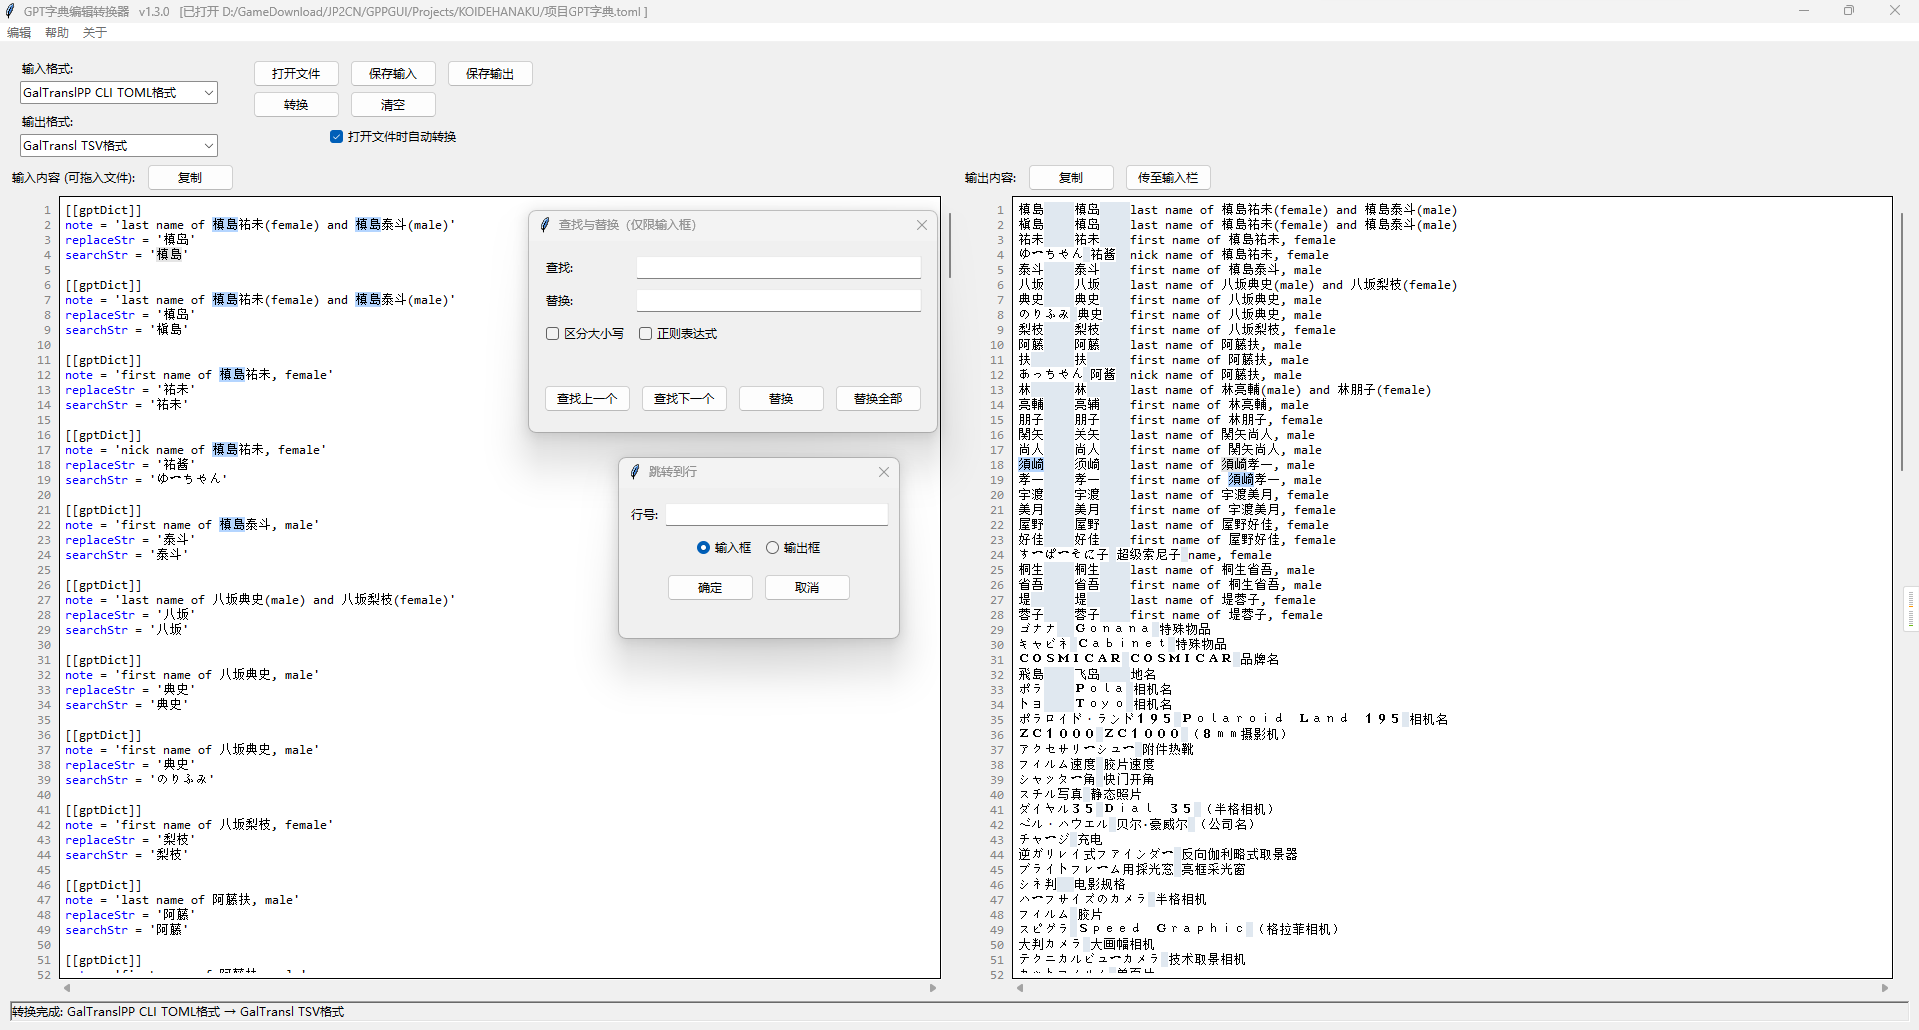
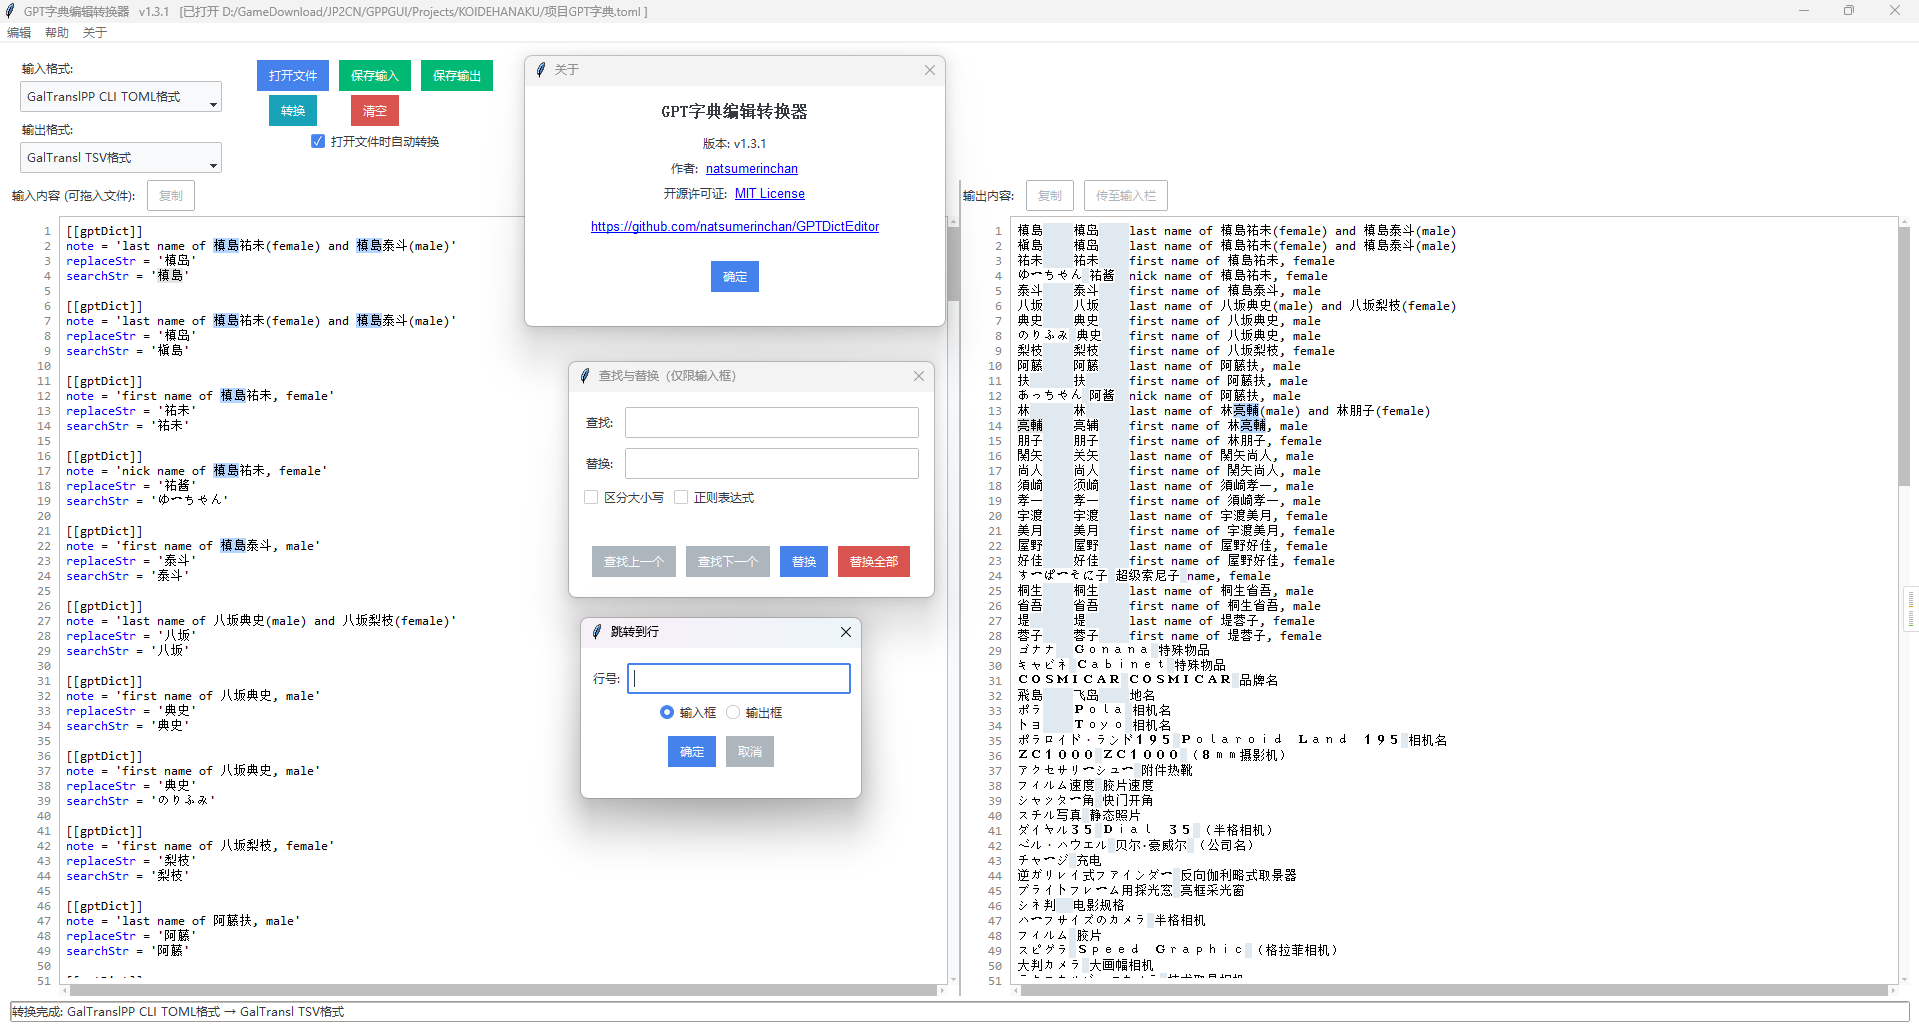
界面风格从tkinter转为ttkbootstrap

diff --git a/ui/main_window.py b/ui/main_window.py
@@ -1,7 +1,7 @@
 # ui/main_window.py
 import tkinter as tk
-from tkinter import ttk
-import tkinter.font as tkFont
+import ttkbootstrap as ttk
+from ttkbootstrap.constants import *
 
 from .custom_widgets import EditorWithLineNumbers
 
@@ -30,16 +30,16 @@ class MainWindowUI:
         top_control_frame.grid(row=0, column=0, columnspan=2, pady=5, sticky="ew")
         
         format_frame = ttk.Frame(top_control_frame)
-        format_frame.pack(side=tk.LEFT, padx=10)
+        format_frame.pack(side=LEFT, padx=10)
         
         # --- 输入格式 ---
-        ttk.Label(format_frame, text="输入格式:").pack(anchor=tk.W)
+        ttk.Label(format_frame, text="输入格式:").pack(anchor=W)
         self.app.input_format = ttk.Combobox(format_frame, values=["自动检测"] + list(self.app.format_names.values()), state="readonly", width=25)
         self.app.input_format.set("自动检测")
         self.app.input_format.pack(pady=2)
         
         # --- 输出格式 ---
-        ttk.Label(format_frame, text="输出格式:").pack(anchor=tk.W, pady=(5, 0))
+        ttk.Label(format_frame, text="输出格式:").pack(anchor=W, pady=(5, 0))
         self.app.output_format = ttk.Combobox(format_frame, values=list(self.app.format_names.values()), state="readonly", width=25)
         self.app.output_format.set(self.app.format_names["GPPGUI_TOML"])
         self.app.output_format.pack(pady=2)
@@ -47,46 +47,46 @@ class MainWindowUI:
 
         # --- 按钮区域 ---
         button_frame = ttk.Frame(top_control_frame)
-        button_frame.pack(side=tk.LEFT, padx=20, anchor='n')
+        button_frame.pack(side=LEFT, padx=20, anchor='n')
         
         btn_grid = ttk.Frame(button_frame)
         btn_grid.pack()
-        ttk.Button(btn_grid, text="打开文件", command=self.app.file_handler.open_file).grid(row=0, column=0, padx=5, pady=2)
-        ttk.Button(btn_grid, text="保存输入", command=self.app.file_handler.save_input_file).grid(row=0, column=1, padx=5, pady=2)
-        ttk.Button(btn_grid, text="保存输出", command=self.app.file_handler.save_output_file).grid(row=0, column=2, padx=5, pady=2)
-        ttk.Button(btn_grid, text="转换", command=self.app.convert).grid(row=1, column=0, padx=5, pady=2)
-        ttk.Button(btn_grid, text="清空", command=self.app.clear).grid(row=1, column=1, padx=5, pady=2)
+        ttk.Button(btn_grid, text="打开文件", command=self.app.file_handler.open_file, bootstyle="primary").grid(row=0, column=0, padx=5, pady=2)
+        ttk.Button(btn_grid, text="保存输入", command=self.app.file_handler.save_input_file, bootstyle="success").grid(row=0, column=1, padx=5, pady=2)
+        ttk.Button(btn_grid, text="保存输出", command=self.app.file_handler.save_output_file, bootstyle="success").grid(row=0, column=2, padx=5, pady=2)
+        ttk.Button(btn_grid, text="转换", command=self.app.convert, bootstyle="info").grid(row=1, column=0, padx=5, pady=2)
+        ttk.Button(btn_grid, text="清空", command=self.app.clear, bootstyle="danger").grid(row=1, column=1, padx=5, pady=2)
         
         self.app.auto_convert_var = tk.BooleanVar(value=True)
-        ttk.Checkbutton(button_frame, text="打开文件时自动转换", variable=self.app.auto_convert_var).pack(pady=5)
+        ttk.Checkbutton(button_frame, text="打开文件时自动转换", variable=self.app.auto_convert_var, bootstyle="primary").pack(pady=5)
         
         # --- 内容编辑区 ---
-        content_frame = ttk.PanedWindow(main_frame, orient=tk.HORIZONTAL)
+        content_frame = ttk.PanedWindow(main_frame, orient=HORIZONTAL)
         content_frame.grid(row=1, column=0, columnspan=2, sticky="nsew")
 
         input_pane = ttk.Frame(content_frame)
         input_header = ttk.Frame(input_pane)
-        input_header.pack(fill=tk.X, pady=(0, 5))
-        ttk.Label(input_header, text="输入内容 (可拖入文件):").pack(side=tk.LEFT, anchor=tk.W)
-        ttk.Button(input_header, text="复制", command=self.app.copy_input).pack(side=tk.LEFT, padx=10)
+        input_header.pack(fill=X, pady=(0, 5))
+        ttk.Label(input_header, text="输入内容 (可拖入文件):").pack(side=LEFT, anchor=W)
+        ttk.Button(input_header, text="复制", command=self.app.copy_input, bootstyle="secondary-outline").pack(side=LEFT, padx=10)
         self.app.input_text = EditorWithLineNumbers(input_pane, borderwidth=1, relief="solid")
-        self.app.input_text.pack(expand=True, fill=tk.BOTH)
+        self.app.input_text.pack(expand=True, fill=BOTH)
         
         output_pane = ttk.Frame(content_frame)
         output_header = ttk.Frame(output_pane)
-        output_header.pack(fill=tk.X, pady=(0, 5))
-        ttk.Label(output_header, text="输出内容:").pack(side=tk.LEFT, anchor=tk.W)
-        ttk.Button(output_header, text="复制", command=self.app.copy_output).pack(side=tk.LEFT, padx=10)
-        ttk.Button(output_header, text="传至输入栏", command=self.app.transfer_output_to_input).pack(side=tk.LEFT)
-        self.app.output_text = EditorWithLineNumbers(output_pane, state=tk.DISABLED, borderwidth=1, relief="solid")
-        self.app.output_text.pack(expand=True, fill=tk.BOTH)
+        output_header.pack(fill=X, pady=(0, 5))
+        ttk.Label(output_header, text="输出内容:").pack(side=LEFT, anchor=W)
+        ttk.Button(output_header, text="复制", command=self.app.copy_output, bootstyle="secondary-outline").pack(side=LEFT, padx=10)
+        ttk.Button(output_header, text="传至输入栏", command=self.app.transfer_output_to_input, bootstyle="secondary-outline").pack(side=LEFT)
+        self.app.output_text = EditorWithLineNumbers(output_pane, state=DISABLED, borderwidth=1, relief="solid")
+        self.app.output_text.pack(expand=True, fill=BOTH)
 
         content_frame.add(input_pane, weight=1)
         content_frame.add(output_pane, weight=1)
         
         # --- 状态栏 ---
         self.app.status_var = tk.StringVar(value="就绪")
-        ttk.Label(main_frame, textvariable=self.app.status_var, relief=tk.SUNKEN).grid(row=2, column=0, columnspan=2, sticky="ew", pady=(5, 0))
+        ttk.Label(main_frame, textvariable=self.app.status_var, relief=SUNKEN).grid(row=2, column=0, columnspan=2, sticky="ew", pady=(5, 0))
 
         # --- 编辑器共享样式 ---
         editor_style = {

diff --git a/ui/dialogs/find_replace.py b/ui/dialogs/find_replace.py
@@ -5,9 +5,11 @@
 
 import re
 import tkinter as tk
-from tkinter import ttk, messagebox
+import ttkbootstrap as ttk
+from ttkbootstrap.constants import *
+from tkinter import messagebox
 
-class FindReplaceDialog(tk.Toplevel):
+class FindReplaceDialog(ttk.Toplevel):
     """
     一个用于查找和替换文本的 Toplevel 窗口。
     它可以在目标文本控件中高亮所有匹配项，并执行替换操作，
@@ -29,32 +31,32 @@ class FindReplaceDialog(tk.Toplevel):
     def create_widgets(self):
         """创建并布局对话框中的所有UI组件。"""
         main_frame = ttk.Frame(self, padding="10")
-        main_frame.pack(expand=True, fill=tk.BOTH)
+        main_frame.pack(expand=True, fill=BOTH)
 
-        ttk.Label(main_frame, text="查找:").grid(row=0, column=0, sticky=tk.W, padx=5, pady=5)
+        ttk.Label(main_frame, text="查找:").grid(row=0, column=0, sticky=W, padx=5, pady=5)
         self.find_entry = ttk.Entry(main_frame, width=40)
-        self.find_entry.grid(row=0, column=1, columnspan=2, sticky=(tk.W, tk.E), padx=5, pady=5)
+        self.find_entry.grid(row=0, column=1, columnspan=2, sticky=(W, E), padx=5, pady=5)
 
-        ttk.Label(main_frame, text="替换:").grid(row=1, column=0, sticky=tk.W, padx=5, pady=5)
+        ttk.Label(main_frame, text="替换:").grid(row=1, column=0, sticky=W, padx=5, pady=5)
         self.replace_entry = ttk.Entry(main_frame, width=40)
-        self.replace_entry.grid(row=1, column=1, columnspan=2, sticky=(tk.W, tk.E), padx=5, pady=5)
+        self.replace_entry.grid(row=1, column=1, columnspan=2, sticky=(W, E), padx=5, pady=5)
 
         option_frame = ttk.Frame(main_frame)
-        option_frame.grid(row=2, column=0, columnspan=3, sticky=tk.W, pady=5)
+        option_frame.grid(row=2, column=0, columnspan=3, sticky=W, pady=5)
         self.case_var = tk.BooleanVar()
-        ttk.Checkbutton(option_frame, text="区分大小写", variable=self.case_var).pack(side=tk.LEFT, padx=5)
+        ttk.Checkbutton(option_frame, text="区分大小写", variable=self.case_var, bootstyle="primary").pack(side=LEFT, padx=5)
         self.regex_var = tk.BooleanVar()
-        ttk.Checkbutton(option_frame, text="正则表达式", variable=self.regex_var).pack(side=tk.LEFT, padx=5)
+        ttk.Checkbutton(option_frame, text="正则表达式", variable=self.regex_var, bootstyle="primary").pack(side=LEFT, padx=5)
 
         self.status_label = ttk.Label(main_frame, text="")
-        self.status_label.grid(row=3, column=0, columnspan=3, sticky=tk.W, padx=5, pady=2)
+        self.status_label.grid(row=3, column=0, columnspan=3, sticky=W, padx=5, pady=2)
 
         btn_frame = ttk.Frame(main_frame)
         btn_frame.grid(row=4, column=0, columnspan=3, pady=10)
-        ttk.Button(btn_frame, text="查找上一个", command=self.find_previous).pack(side=tk.LEFT, padx=5)
-        ttk.Button(btn_frame, text="查找下一个", command=self.find_next).pack(side=tk.LEFT, padx=5)
-        ttk.Button(btn_frame, text="替换", command=self.replace).pack(side=tk.LEFT, padx=5)
-        ttk.Button(btn_frame, text="替换全部", command=self.replace_all).pack(side=tk.LEFT, padx=5)
+        ttk.Button(btn_frame, text="查找上一个", command=self.find_previous, bootstyle="secondary").pack(side=LEFT, padx=5)
+        ttk.Button(btn_frame, text="查找下一个", command=self.find_next, bootstyle="secondary").pack(side=LEFT, padx=5)
+        ttk.Button(btn_frame, text="替换", command=self.replace, bootstyle="primary").pack(side=LEFT, padx=5)
+        ttk.Button(btn_frame, text="替换全部", command=self.replace_all, bootstyle="danger").pack(side=LEFT, padx=5)
 
         self.find_entry.bind('<KeyRelease>', lambda e: self._highlight_all_matches())
         self.case_var.trace_add('write', lambda *a: self._highlight_all_matches())

diff --git a/ui/dialogs/go_to_line.py b/ui/dialogs/go_to_line.py
@@ -4,9 +4,11 @@
 """
 
 import tkinter as tk
-from tkinter import ttk, messagebox
+import ttkbootstrap as ttk
+from ttkbootstrap.constants import *
+from tkinter import messagebox
 
-class GoToLineDialog(tk.Toplevel):
+class GoToLineDialog(ttk.Toplevel):
     """
     一个用于跳转到指定行的 Toplevel 窗口。
     用户可以选择目标是输入框还是输出框。
@@ -39,14 +41,14 @@ class GoToLineDialog(tk.Toplevel):
     def create_widgets(self):
         """创建并布局对话框中的所有UI组件。"""
         main_frame = ttk.Frame(self, padding="10")
-        main_frame.pack(expand=True, fill=tk.BOTH)
+        main_frame.pack(expand=True, fill=BOTH)
 
         # 行号输入区域
         input_frame = ttk.Frame(main_frame)
-        input_frame.pack(fill=tk.X, pady=5)
-        ttk.Label(input_frame, text="行号:").pack(side=tk.LEFT, padx=(0, 5))
+        input_frame.pack(fill=X, pady=5)
+        ttk.Label(input_frame, text="行号:").pack(side=LEFT, padx=(0, 5))
         self.line_entry = ttk.Entry(input_frame)
-        self.line_entry.pack(side=tk.LEFT, expand=True, fill=tk.X)
+        self.line_entry.pack(side=LEFT, expand=True, fill=X)
         self.line_entry.focus_set()  # 自动聚焦到输入框
         self.line_entry.bind("<Return>", self.on_ok)  # 绑定回车键
 
@@ -55,17 +57,17 @@ class GoToLineDialog(tk.Toplevel):
         target_frame.pack(pady=5)
         self.target_var = tk.StringVar(value="input")
         ttk.Radiobutton(
-            target_frame, text="输入框", variable=self.target_var, value="input"
-        ).pack(side=tk.LEFT, padx=5)
+            target_frame, text="输入框", variable=self.target_var, value="input", bootstyle="primary"
+        ).pack(side=LEFT, padx=5)
         ttk.Radiobutton(
-            target_frame, text="输出框", variable=self.target_var, value="output"
-        ).pack(side=tk.LEFT, padx=5)
+            target_frame, text="输出框", variable=self.target_var, value="output", bootstyle="primary"
+        ).pack(side=LEFT, padx=5)
 
         # 操作按钮
         btn_frame = ttk.Frame(main_frame)
         btn_frame.pack(pady=10)
-        ttk.Button(btn_frame, text="确定", command=self.on_ok).pack(side=tk.LEFT, padx=5)
-        ttk.Button(btn_frame, text="取消", command=self.destroy).pack(side=tk.LEFT, padx=5)
+        ttk.Button(btn_frame, text="确定", command=self.on_ok, bootstyle="primary").pack(side=LEFT, padx=5)
+        ttk.Button(btn_frame, text="取消", command=self.destroy, bootstyle="secondary").pack(side=LEFT, padx=5)
 
     def on_ok(self, event=None):
         """
@@ -94,9 +96,9 @@ class GoToLineDialog(tk.Toplevel):
 
         # 特殊处理：如果目标控件被禁用（如输出框），需先启用再操作
         # 注意：状态操作必须指向内部的 .text 组件
-        was_disabled = (target_widget.text.cget("state") == tk.DISABLED)
+        was_disabled = (target_widget.text.cget("state") == DISABLED)
         if was_disabled:
-            target_widget.text.config(state=tk.NORMAL)
+            target_widget.text.config(state=NORMAL)
 
         # 移除之前可能存在的所有行高亮
         for widget in [self.app.input_text, self.app.output_text]:

diff --git a/ui/dialogs/about_dialog.py b/ui/dialogs/about_dialog.py
@@ -1,18 +1,19 @@
 import tkinter as tk
 import tkinter.font as tkFont
 import webbrowser
-from tkinter import ttk
+import ttkbootstrap as ttk
+from ttkbootstrap.constants import *
 
 def show_about_dialog(parent, app_version):
     """显示“关于”对话框。"""
-    about_win = tk.Toplevel(parent)
+    about_win = ttk.Toplevel(parent)
     about_win.title("关于")
     about_win.transient(parent)
     about_win.geometry("420x240")
     about_win.resizable(False, False)
     
     main_frame = ttk.Frame(about_win, padding="15")
-    main_frame.pack(expand=True, fill=tk.BOTH)
+    main_frame.pack(expand=True, fill=BOTH)
     
     ttk.Label(main_frame, text="GPT字典编辑转换器", font=("", 12, "bold")).pack(pady=(0, 10))
     ttk.Label(main_frame, text=f"版本: {app_version}").pack(pady=2)
@@ -21,23 +22,23 @@ def show_about_dialog(parent, app_version):
     
     author_frame = ttk.Frame(main_frame)
     author_frame.pack(pady=2)
-    ttk.Label(author_frame, text="作者: ").pack(side=tk.LEFT)
+    ttk.Label(author_frame, text="作者: ").pack(side=LEFT)
     author_link = ttk.Label(author_frame, text="natsumerinchan", foreground="blue", cursor="hand2", font=link_font)
-    author_link.pack(side=tk.LEFT)
+    author_link.pack(side=LEFT)
     author_link.bind("<Button-1>", lambda e: webbrowser.open_new("https://github.com/natsumerinchan"))
     
     license_frame = ttk.Frame(main_frame)
     license_frame.pack(pady=2)
-    ttk.Label(license_frame, text="开源许可证: ").pack(side=tk.LEFT)
+    ttk.Label(license_frame, text="开源许可证: ").pack(side=LEFT)
     license_link = ttk.Label(license_frame, text="MIT License", foreground="blue", cursor="hand2", font=link_font)
-    license_link.pack(side=tk.LEFT)
+    license_link.pack(side=LEFT)
     license_link.bind("<Button-1>", lambda e: webbrowser.open_new("https://github.com/natsumerinchan/GPTDictEditor/blob/master/LICENSE"))
     
     repo_link = ttk.Label(main_frame, text="https://github.com/natsumerinchan/GPTDictEditor", foreground="blue", cursor="hand2", font=link_font)
     repo_link.pack(pady=10)
     repo_link.bind("<Button-1>", lambda e: webbrowser.open_new("https://github.com/natsumerinchan/GPTDictEditor"))
     
-    ttk.Button(main_frame, text="确定", command=about_win.destroy).pack(pady=15)
+    ttk.Button(main_frame, text="确定", command=about_win.destroy, bootstyle="primary").pack(pady=15)
     
     about_win.update_idletasks()
     x = parent.winfo_x() + (parent.winfo_width() - about_win.winfo_width()) // 2

diff --git a/ui/custom_widgets.py b/ui/custom_widgets.py
@@ -4,7 +4,8 @@
 """
 
 import tkinter as tk
-from tkinter import ttk
+import ttkbootstrap as ttk
+from ttkbootstrap.constants import *
 
 class EditorWithLineNumbers(tk.Frame):
     """
@@ -32,15 +33,15 @@ class EditorWithLineNumbers(tk.Frame):
         self.linenumbers.grid(row=0, column=0, sticky="ns")
 
         # 创建垂直滚动条
-        self.vbar = ttk.Scrollbar(self, orient=tk.VERTICAL, command=self.yview)
+        self.vbar = ttk.Scrollbar(self, orient=VERTICAL, command=self.yview)
         self.vbar.grid(row=0, column=2, sticky="ns")
         
         # 创建水平滚动条
-        self.hbar = ttk.Scrollbar(self, orient=tk.HORIZONTAL)
+        self.hbar = ttk.Scrollbar(self, orient=HORIZONTAL)
         self.hbar.grid(row=1, column=1, sticky="ew")
 
         # 创建核心文本控件
-        self.text = tk.Text(self, undo=True, wrap=tk.NONE, *args, **kwargs)
+        self.text = tk.Text(self, undo=True, wrap=NONE, *args, **kwargs)
         self.text.grid(row=0, column=1, sticky="nsew")
         
         # 将滚动条与文本控件关联

diff --git a/app.py b/app.py
@@ -5,11 +5,12 @@
 # 标准库导入
 import os
 import sys
-import tkinter as tk
+import ttkbootstrap as ttk
+from ttkbootstrap.constants import *
 import tkinter.font as tkFont
 import webbrowser
 import json
-from tkinter import ttk, messagebox
+from tkinter import messagebox
 from typing import Optional
 
 import markdown
@@ -35,7 +36,7 @@ class GPTDictConverter:
     GPT字典编辑转换器的主应用程序类。
     负责UI的创建、事件处理和模块协调。
     """
-    def __init__(self, root: tk.Tk):
+    def __init__(self, root: ttk.Window):
         self.root = root
         self.root.title(f"GPT字典编辑转换器   {APP_VERSION}")
         

diff --git a/main.py b/main.py
@@ -2,8 +2,8 @@
 # 1. 依赖检查与导入
 # #####################################################################
 import sys
-from tkinter import messagebox, Tk
-
+import ttkbootstrap as ttk
+from tkinter import messagebox
 from tkinterdnd2 import TkinterDnD
 
 # 从其他模块导入主应用程序类
@@ -24,6 +24,7 @@ def main():
         root = TkinterDnD.Tk()
         
         # 实例化主应用程序
+        style = ttk.Style()
         app = GPTDictConverter(root)
         
         # 启动UI事件循环

diff --git a/constants.py b/constants.py
@@ -8,7 +8,7 @@
 # #####################################################################
 
 # 应用程序的版本号
-APP_VERSION = "v1.3.0"
+APP_VERSION = "v1.3.1"
 
 
 # #####################################################################
